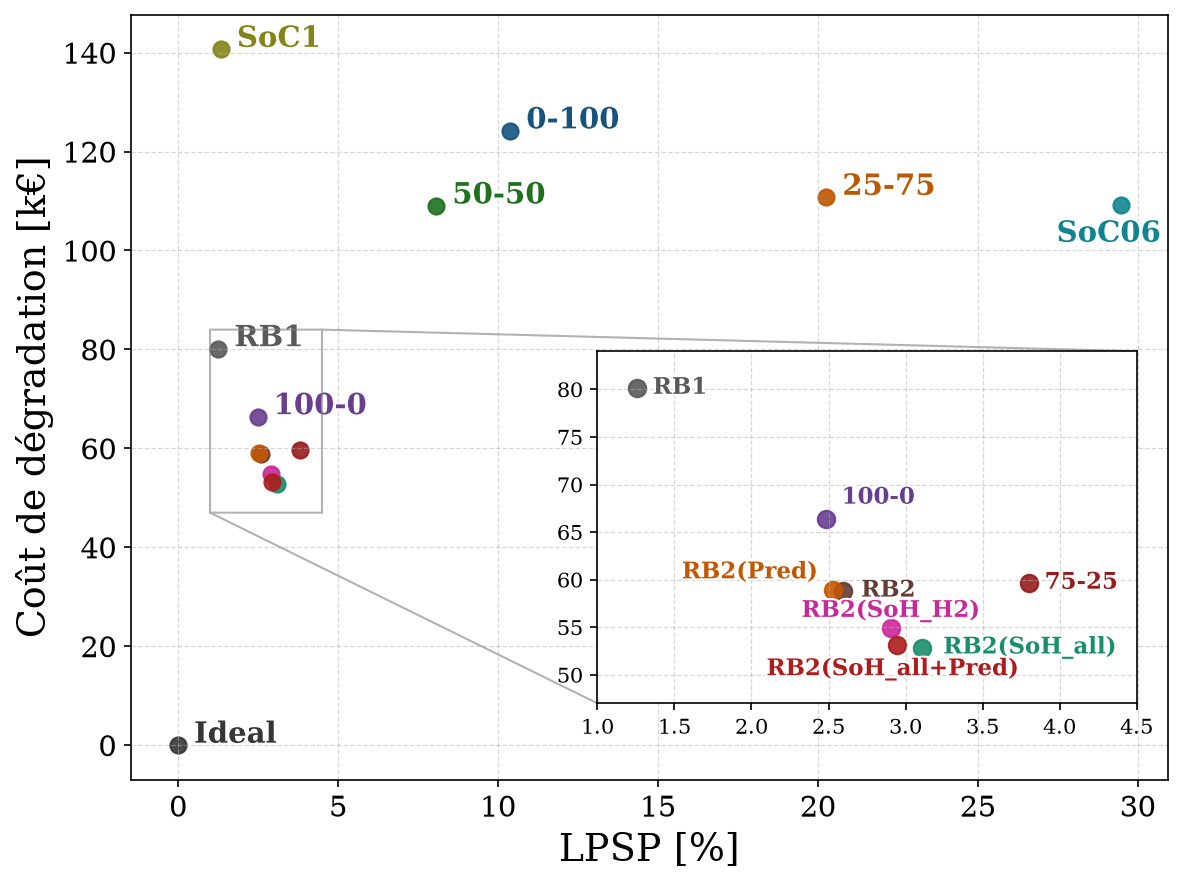
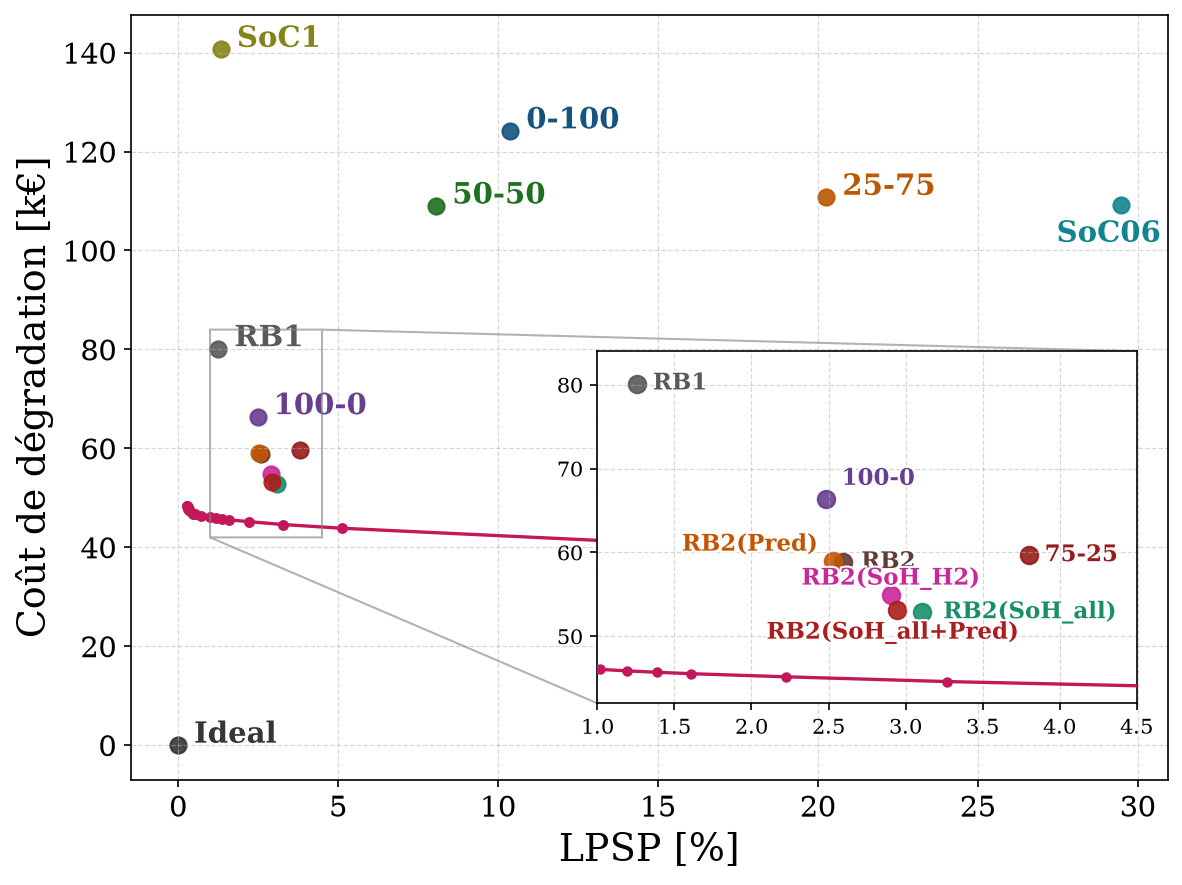
DP front v2 mesocentre : front definitif + figures (domination retablie)
Front PD v2 (job 213210, 19 eps, LUT reelles) : degradation -9 a -10 kEUR sur
tout le front vs v1, a LPSP egal. Domine TOUTES les strategies de la these,
y compris RB2(SoH_all+Pred) (+8.3 kEUR de deg a LPSP egal). Le front redevient
une borne superieure credible de l'optimum global.

- note_dp_front_v2.txt : section 6 (resultats cluster + table de domination)
- plot_pareto_ultime.py : overlay --dp, encart descendu a 42 kEUR
- figures regenerees : pareto_strategies_vs_DP, pareto_ems_ultime{,_isocost}
- front v2 versionne : DP/results_meso/dp_pareto_25y_51x51_v2.{npz,txt}

Claude-Session: https://claude.ai/code/session_01Mbcp83LQL7jG62hTVtkpRG

diff --git a/Robustesse/Fable_pred/plot_pareto_ultime.py b/Robustesse/Fable_pred/plot_pareto_ultime.py
@@ -175,15 +175,18 @@ def build_figure(iso_cost):
             axins.text(points[i, 0] + dx, points[i, 1] + dy, label, fontsize=11,
                        color=color_of(label), weight='bold', path_effects=LABEL_STROKE,
                        horizontalalignment=ha, verticalalignment=va)
+    # avec l'overlay du front PD, on descend la borne basse de l'encart pour que
+    # le front (deg ~45-48 kEUR) soit visible SOUS les strategies (domination).
+    ins_ylo = 42 if DP_FRONT is not None else 47
     axins.set_xlim(1.0, 4.5)
-    axins.set_ylim(47, 84)
+    axins.set_ylim(ins_ylo, 84)
     axins.grid(True, linestyle='--', alpha=0.5)
     axins.tick_params(labelsize=10)
 
     if iso_cost:
         main_xlim, main_ylim = ax.get_xlim(), ax.get_ylim()
         draw_isocost(ax, list(range(70, 141, 10)), main_xlim, main_ylim, label_y=13)
-        draw_isocost(axins, [70, 75, 80, 85, 90, 95, 100], (1.0, 4.5), (47, 84))
+        draw_isocost(axins, [70, 75, 80, 85, 90, 95, 100], (1.0, 4.5), (ins_ylo, 84))
 
     ax.indicate_inset_zoom(axins, edgecolor='gray', alpha=0.6)
     ax.set_xlabel("LPSP [%]", fontsize=18)